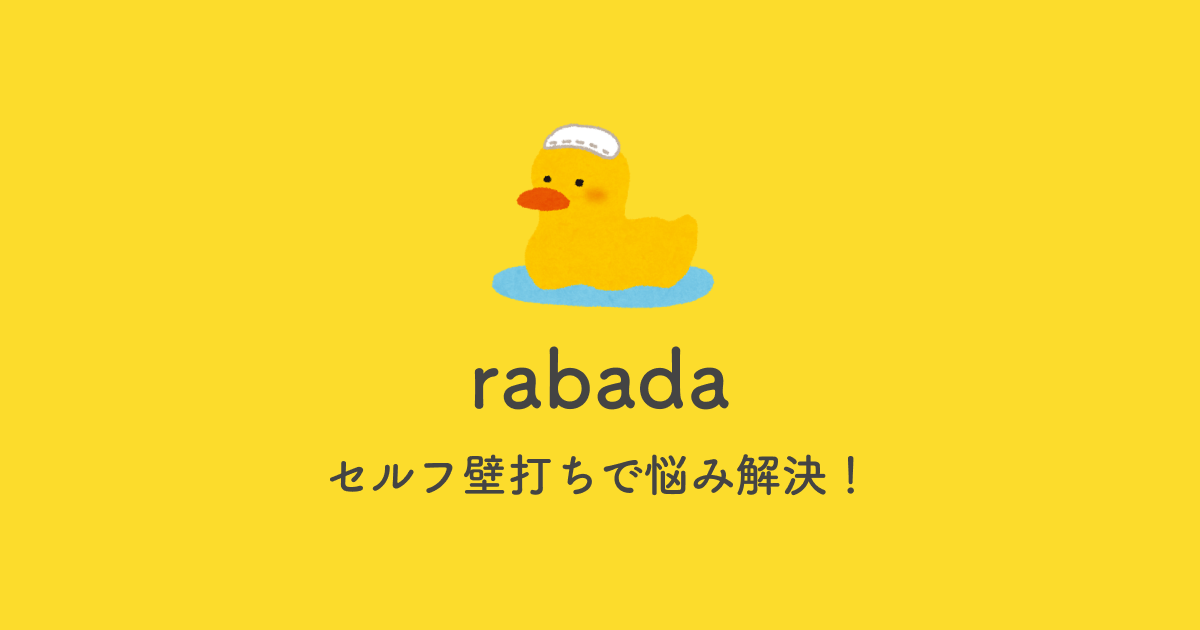
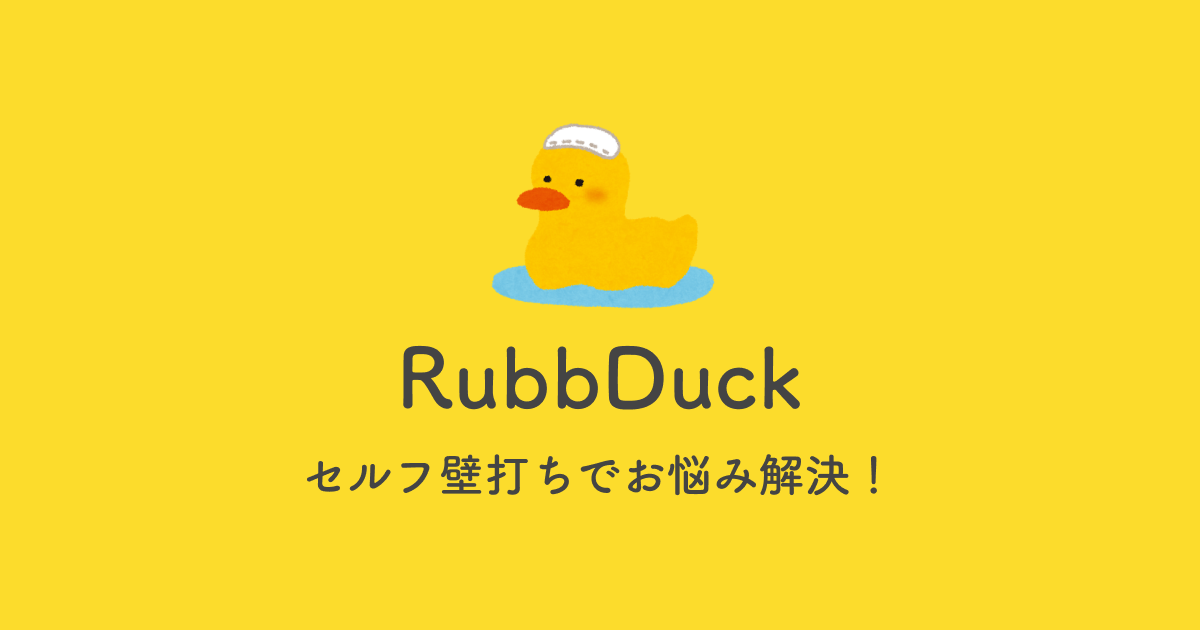
rename rabada to rubbduck

Changed region(s): [[0.3083, 0.5429, 0.6783, 0.6635], [0.2467, 0.7238, 0.74, 0.7841]]

diff --git a/nuxt.config.js b/nuxt.config.js
@@ -15,13 +15,13 @@ export default {
   ** See https://nuxtjs.org/api/configuration-head
   */
   head: {
-    title: process.env.npm_package_name || '',
+    title: process.env.npm_package_display_name || '',
     meta: [
       { charset: 'utf-8' },
       { name: 'viewport', content: 'width=device-width, initial-scale=1' },
       { hid: 'description', name: 'description', content: process.env.npm_package_description },
-      { hid: 'og:site_name', property: 'og:site_name', content: process.env.npm_package_name || ''},
-      { hid: 'og:title', property: 'og:title', content: process.env.npm_package_name || '' },
+      { hid: 'og:site_name', property: 'og:site_name', content: process.env.npm_package_display_name || ''},
+      { hid: 'og:title', property: 'og:title', content: process.env.npm_package_name_display_name || '' },
       { hid: 'og:type', property: 'og:type', content: 'website' },
       { hid: 'og:url', property: 'og:url', content: 'https://rabada.herokuapp.com' },
       { hid: 'og:description', property: 'og:description', content: process.env.npm_package_description },

diff --git a/components/Header.vue b/components/Header.vue
@@ -2,7 +2,7 @@
   <nav class="navbar is-primary" role="navigation" aria-label="main navigation">
     <div class="navbar-brand">
 
-      <div class="navbar-item has-text-weight-bold">rabada</div>
+      <div class="navbar-item has-text-weight-bold">RubbDuck</div>
 
       <a role="button" class="navbar-burger burger" :class="{ 'is-active': open_burger }" aria-label="menu" aria-expanded="false" data-target="navbarBasicExample" @click="toggle_burger">
         <span aria-hidden="true"></span>
